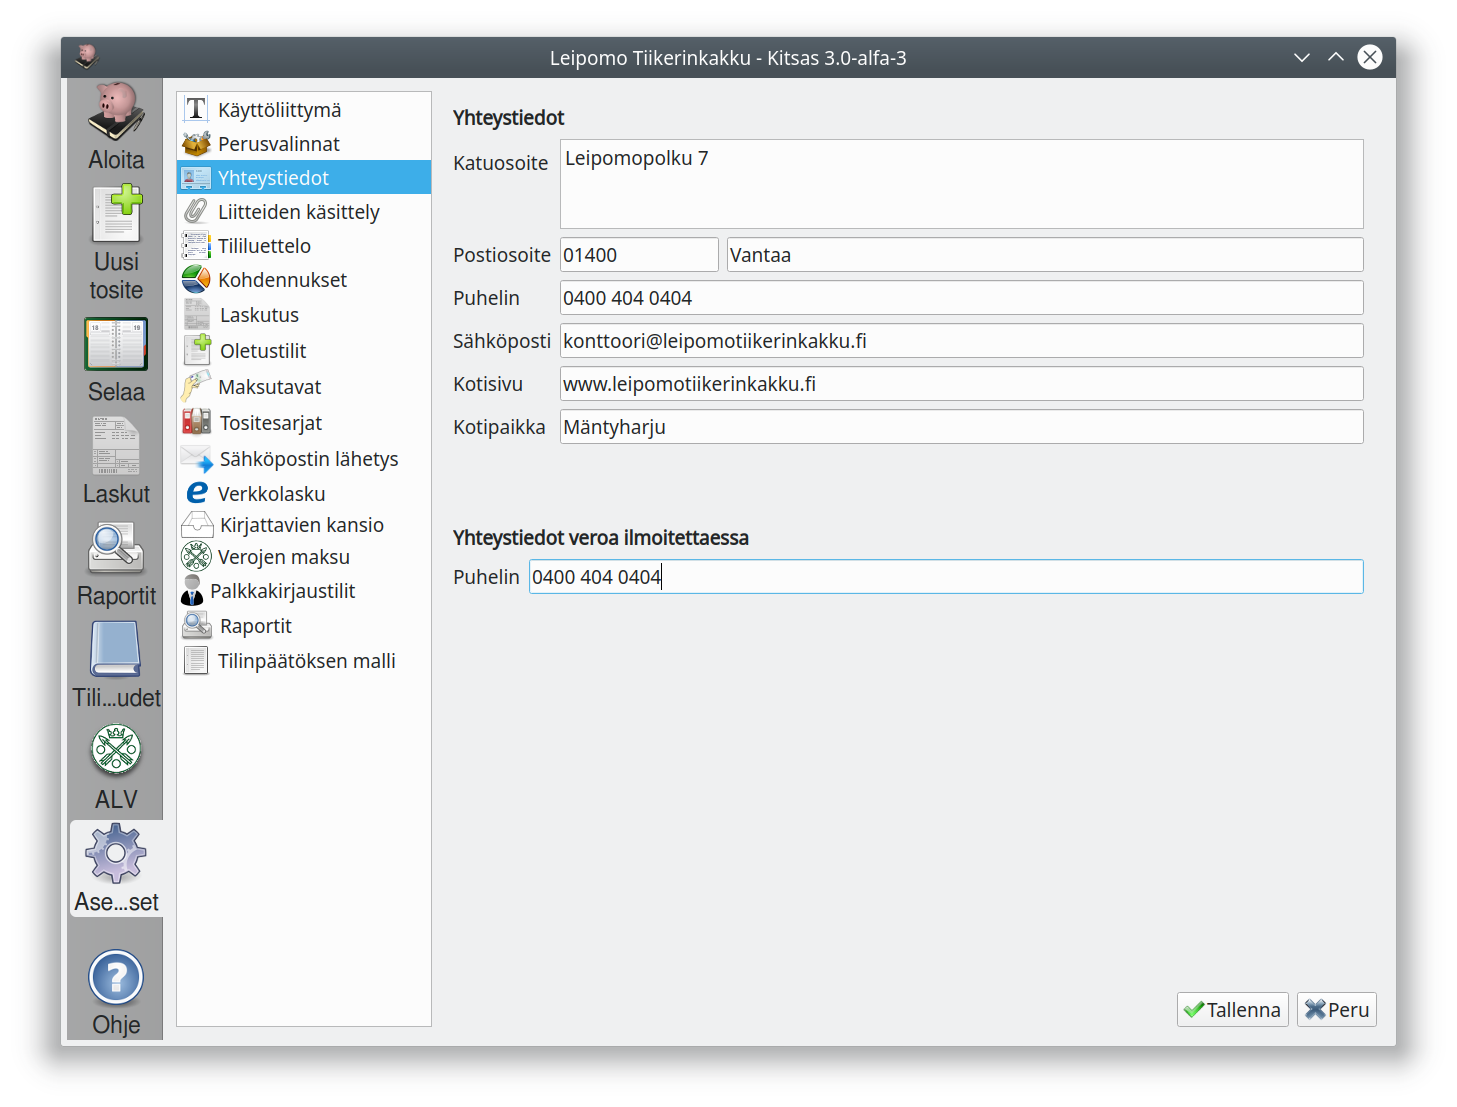
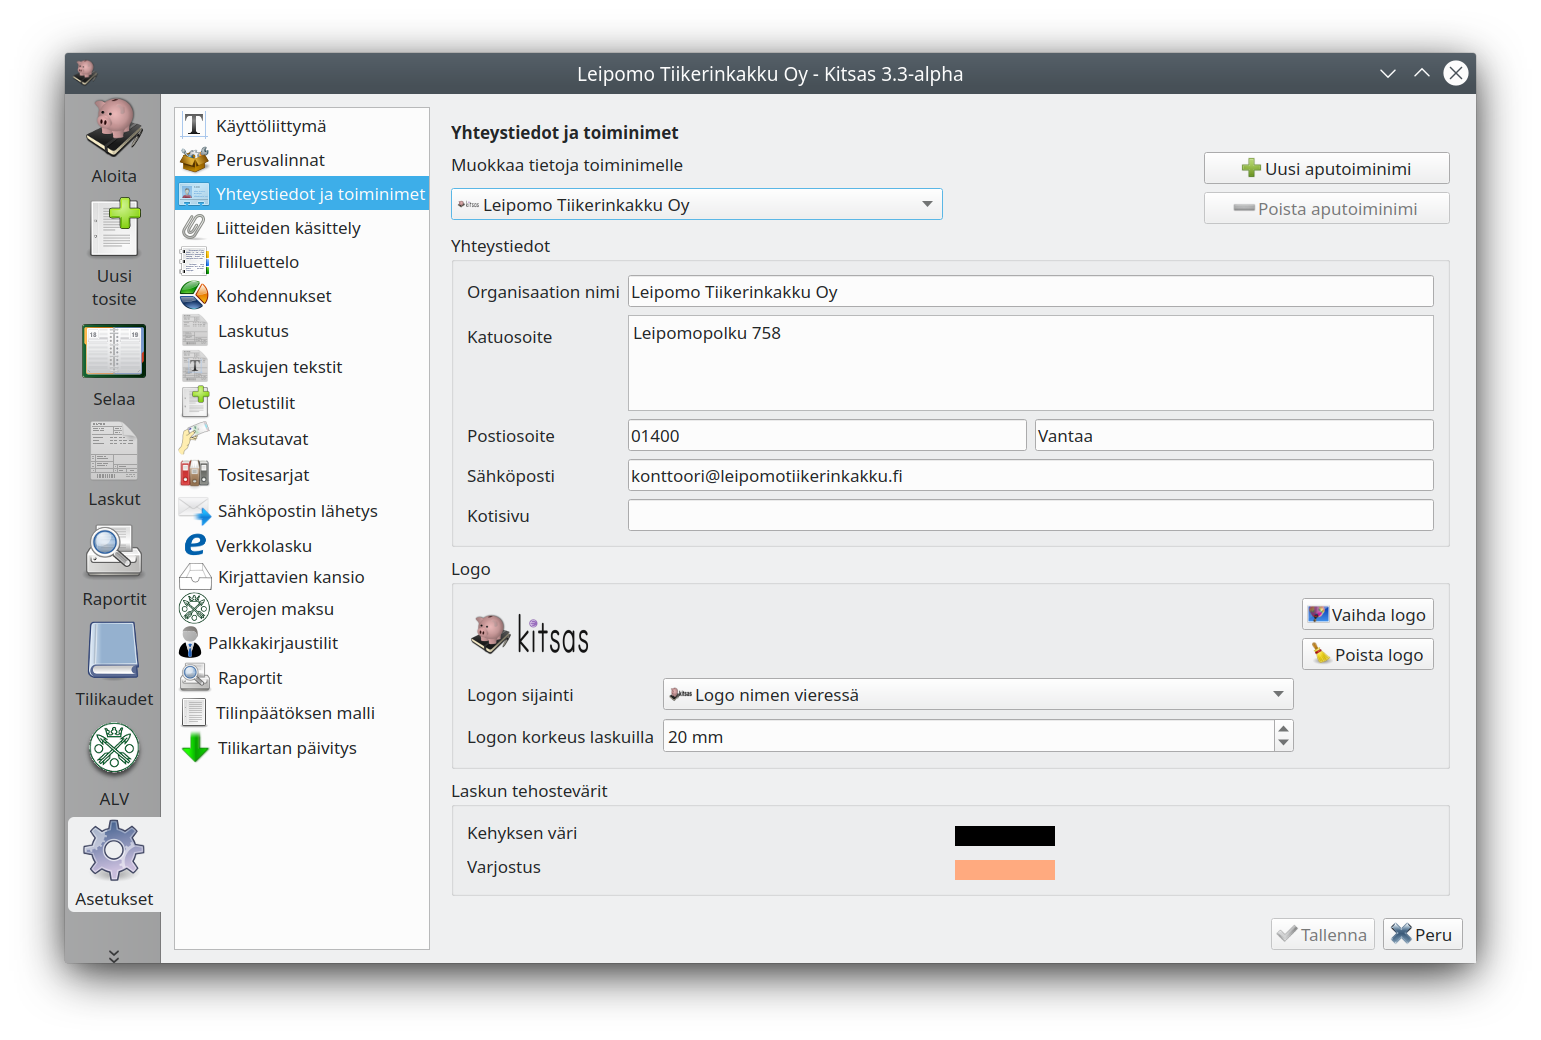
Version 3.3 ohjeet

diff --git a/content/fi/docs/asetukset/sahkoposti.md b/content/fi/docs/asetukset/sahkoposti.md
@@ -10,7 +10,25 @@ description: >
 
 Kitsaalla on mahdollista lähettää laskut suoraan sähköpostiin. Jos tätä toimintoa haluaa käyttää, on ohjelmassa määritettävä sähköpostin asetukset.
 
-Jos valitset asetusten tallentamisen **tietokoneen asetuksiin**, sähköpostitilin asetukset ovat tietokonekohtaisia (samoja asetuksia käytetään kaikilla kirjanpidoilla). Jos valitset tallentamisen **kirjanpitokohtaisesti**, syötetään sähköpostiasetukset erikseen jokaiseen kirjanpitoon. Jos kirjanpidolla on useampi käyttäjä, käyttävät he samoja asetuksia.
+### Sähköpostiasetusten tallennus
+
+#### Tietokoneen asetuksiin
+
+Sähköpostipalvelimen asetukset ovat tietokonekohtaisia, eli samoja asetuksia käytetään kaikilla kirjanpidoilla.
+
+#### Kirjanpitokohtaisesti
+
+Sähköpostipalvelimen asetukset ovat kirjanpitokohtaisia. Jos kirjanpidolla on useampia käyttäjiä, käyttävät he kaikki samoja asetuksia.
+
+#### Lähetä Kitsaan palvelimen kautta
+
+<div class="cloud-only">
+  <i class="fa fa-cloud"></i> Ominaisuus on käytettävissä vain, kun kirjanpito on tallennettu Kitsaan pilveen
+</div>
+
+Sähköpostit lähetetään Kitsaan palvelimen kautta. Sinun ei tarvitse määritellä itse palvelimen asetuksia.
+
+### Smtp-palvelin
 
 - **Palvelin**: Lähtevän sähköpostin palvelimen osoite, löytyy sähköpostin tai internetyhteyden ohjeista.
 - **Portti**: Lähtevän sähköpostin portti palvelimella
@@ -20,12 +38,13 @@ Jos valitset asetusten tallentamisen **tietokoneen asetuksiin**, sähköpostitil
 - **Käyttäjänimi**: Käyttäjänimi palvelimella palveluntarjoajan vaatimassa muodossa
 - **Salasana**: Sähköpostin salasana. Jos Gmailissa käytetään kaksivaiheista varmennusta, tähän syötetään [sovellussalasana](https://myaccount.google.com/apppasswords).
 
-- **Viestin lähettäjän nimi ja osoite**: Viesteissä näkyvät tiedot. Jotkut sähköpostipalvelut vaativat kyseisen palvelun sähköpostiosoitteen käyttämistä.
-
 Kun olet syöttänyt asetukset, paina **Kokeile**-painiketta, joka yrittää lähettää sähköpostin omaan osoitteeseesi. Jos lähetys epäonnistuu, saat siitä ilmoituksen
 
 ![](/img/fi/asetukset/emailvirhe.png)
 
 Tässä tapauksessa käyttäjätunnus tai salasana on väärin.
 
-**Sähköpostilaskun viesti** -kohdassa syötät saateviestin, jonka liitteeksi lasku lähetetään. Voit myös valita, lisätäänkö viestin loppuun **maksutiedot** eli laskun summa, viitenumero, tilinumero sekä virtuaaliviivakoodi.
+### Viestin lähettäjä
+
+- **Viestin lähettäjän nimi ja osoite**: Viesteissä näkyvät tiedot. Jotkut sähköpostipalvelut vaativat kyseisen palvelun sähköpostiosoitteen käyttämistä.
+- **Laskukopiot osoitteeseen**: Kaikista lähetettävistä laskuista lähetetään kopio myös määrittelemääsi osoitteeseen.

diff --git a/content/fi/docs/asetukset/laskutus.md b/content/fi/docs/asetukset/laskutus.md
@@ -2,7 +2,7 @@
 title: "Laskutuksen asetukset"
 linkTitle: "Laskutus"
 weight: 90
-keywords: ["laskutus"]
+keywords: ["laskutus", "aputoiminimi"]
 description: >
   Laskutuksen tilien ja laskujen ulkoasun asetukset
 ---
@@ -38,13 +38,16 @@ Huomautusaika
 Peruskorko
 : korko, jonka perusteella viivästyskorko määritellään. [Suomen Pankki](https://www.suomenpankki.fi/fi/Tilastot/korot/kuviot/korot_kuviot/viitekorko_chrt_fi/) julkaisee koron puolen vuoden jaksoille.
 
+Laskurivit
+: tulostetaanko laskurivit arvonlisäverottomilla hinnoilla (**Verottomat rivit**), arvonlisäverollisilla hinnoilla (**Verolliset rivit**) vai molemmilla (**Pitkät rivit**). Valinnan voi tehdä laskua muokattaessa myös yksittäiselle laskulle.
+
+Desimaaleja yksikköhinnassa
+: kuinka monen desimaalin tarkkuudella tuotteiden yksikköhinnat määritellään. Rivin ja laskun kokonaishinta lasketaan aina sentin tarkkuudella.
+
 #### Tulosta laskuille
 
 Tilinumerot
 : Tilinumerot pitää ensin määritellä [tilin tiedoissa]({{<relref "tililuettelo">}}).
-
-Aputoiminimi
-: Käytettäessä aputoiminimeä tulostetaan se yrityksen nimen sijaan
 
 Tilisiirto
 : Perinteinen tilisiirtolomake laskun alalaidassa
@@ -61,15 +64,6 @@ QR-koodi
 Virtuaaliviivakoodi
 : Tekstimuodossa tulostettavat viivakoodin tiedot, joilla maksutiedot voidaan syöttää esim. verkkopankkiin
 
-Kehyksen väri
-: Laskua tulostettaessa kehyksissä käytettävä väri
-
-Varjostus
-: Laskua tulostettaessa varjostukseen käytettävä väri
-
-Logon korkeus
-: Laskulle tulostettavan logon korkeus. Logo ja sen sijainti määritellään [Perusvalinnat]{{<relref "perusvalinnat">}}-lehdellä
-
 #### Ikkunakuoret
 
 Jos laskut on tarkoitus postittaa **ikkunakuoressa**, määrittele kirjekuoren osoiteikkunan koko sekä sijainti. Isoikkunakuoressa (ikkunan korkeus yli 5,5 cm) ikkunan kohdalle tulostetaan sekä lähettäjän että vastaanottajan tiedot.
@@ -82,3 +76,9 @@ Suositellut ikkunakuoret
 | C5 isoikkuna  | 90 mm          | 60 mm           | 18 mm               | 10 mm             |
 | E65           | 90 mm          | 30 mm           | 18 mm               | 40 mm             |
 | E65 isoikkuna | 90 mm          | 60 mm           | 18 mm               | 10 mm             |
+
+{{<alert title="Aputoiminimi, logo ja tehostevärit">}}
+
+Aputoiminimet sekä logoon ja tehosteväreihin liittyvät valinnat määritellään [Yhteystiedot ja toiminimet]({{<relref "yhteystiedot">}}) -välilehdellä.
+
+{{</alert>}}

diff --git a/content/fi/docs/laskutus/luominen/yksityiskohdat.md b/content/fi/docs/laskutus/luominen/yksityiskohdat.md
@@ -82,6 +82,26 @@ Vakioviite
 Valvomaton
 : Laskua ei kirjata myyntisaataviin eikä sen maksamista valvota. Voi käyttää sellaisten laskujen tulostamiseen, jotka kirjataan vasta maksuperusteisesti.
 
+### Arvonlisäveron merkitseminen
+
+![](/img/fi/laskutus/luominen/verorivit.png)
+
+Verottomat rivit
+: Rivien summat ilmoitetaan verottomina, ja vero lisätään vasta kokonaissummaan. Yleinen laskentatapa yritysten välisessä laskutuksessa.
+
+Verolliset rivit
+: Rivien summat ilmoitetaan verollisina. Yleinen tapa laskutettaessa yksityishenkilöitä ja yhdistyksiä, jotka eivät vähennä arvonlisäveroa
+
+Pitkät rivit
+: Jokaiselle riville merkitään sekä veroton että verollinen rivisumma.
+
+### Aputoiminimi
+
+![Toiminimi](/img/fi/laskutus/luominen/toiminimi.png)
+
+Jos asetuksissa on määritelty aputoiminimiä, voit valita tästä laskulle tulostuvan toiminimen (päätoiminimi tai jokin aputoiminimistä)
+
+
 ### Toimituspäivämäärä tai laskutusjakso
 
 ![Toimituspäivämäärän valinta](/img/fi/laskutus/luominen/toimituspvm.png)
@@ -95,19 +115,6 @@ Laskutusjakso
 ### Otsikko
 
 Otsikko tulostetaan laskulle, ja se toimii myös tositteen otsikkona kirjanpidossa.
-
-### Arvonlisäveron merkitseminen
-
-![](/img/fi/laskutus/luominen/verorivit.png)
-
-Verottomat rivit
-: Rivien summat ilmoitetaan verottomina, ja vero lisätään vasta kokonaissummaan. Yleinen laskentatapa yritysten välisessä laskutuksessa.
-
-Verolliset rivit
-: Rivien summat ilmoitetaan verollisina. Yleinen tapa laskutettaessa yksityishenkilöitä ja yhdistyksiä, jotka eivät vähennä arvonlisäveroa
-
-Pitkät rivit
-: Jokaiselle riville merkitään sekä veroton että verollinen rivisumma.
 
 ### Laskun rivit
 
@@ -144,3 +151,11 @@ Lasku, jolla on toimitusjakso, voidaan määritellä toistumaan. Tällöin lasku
 {{% alert title="Toistolaskujen lopettaminen tai muuttaminen" color="primary" %}}
 Voit muuttaa tositumisen asetuksia avaamalla laskun, jolle on määritelty toistuminen, muokattavaksi.
 {{% /alert %}}
+
+### Saateviesti
+
+Kun lasku lähetetään sähköpostilla, sähköpostiviestin otsikko ja teksti. Pdf-muotoinen lasku lähetetään sähköpostiviestin liitteenä.
+
+### Liitteet
+
+Voit lisätä liitetiedostoja, jotka lähetetään sähköposti- ja verkolaskuissa liitetiedostoina. Verkkolaskun liitetiedostojen on oltava pdf-muodossa.

diff --git a/content/fi/docs/asetukset/perusvalinnat.md b/content/fi/docs/asetukset/perusvalinnat.md
@@ -3,7 +3,7 @@ title: "Perusvalinnat"
 linkTitle: "Perusvalinnat"
 weight: 20
 description: >
-  Yrityksen perustiedot, tilikartan valinnat, logo ja ALV-velvollisuus
+  Yrityksen perustiedot, tilikartan valinnat ja ALV-velvollisuus
 keywords: ["uusi"]
 ---
 
@@ -15,14 +15,14 @@ Organisaation nimi
 Y-tunnus
 : Yritystietojärjestelmään rekisteröity Y-tunnus, käytetään tulosteissa.
 
+Kotipaikka
+: Yrityksen virallinen kotipaikka
+
 Yritysmuoto
 : Yritysmuoto määrittelee, mitä tilejä on käytettävissä ja millainen tilinpäätös laaditaan
 
 Laajuus
 : Käytössä olevan tilikartan laajuus määrittelee, kuinka suuri osa tilikartan tileistä on näkyvissä. Voit ottaa yksittäisiä tilejä käyttöön tai piilottaa niitä myös **Tililuettelo**-asetuksissa.
-
-Logo
-: Logo näytetään erilaisissa tulosteissa. Logon sijainti määrittelee, miten logo näytetään laskuilla suhteessa organisaation nimeen.
 
 Tiedoston sijainti
 : Paikallisesti tietokoneelle tallennetun kirjanpitotiedoston sijainti
@@ -41,3 +41,9 @@ Arvonlisäverovelvollinen
 
 Harjoituskirjanpito
 : Harjoituskirjanpidossa kaikkiin tulosteisiin tulee merkintä **HARJOITUS**, jolloin ne erottuvat oikeista kirjanpidon tulosteista ja laskuista. Harjoitustilassa näytön ylälaidassa on palkki, jolla voit muuttaa ohjelman käyttämää päivämäärää ja siten harjoitella esimerkiksi maksumuistutusten muodostamista.
+
+{{<alert title="Logo">}}
+
+Yrityksen logo määritellään [Yhteystiedot ja toiminimet]({{<relref "yhteystiedot">}}) -välilehdellä.
+
+{{</alert>}}

diff --git a/content/fi/docs/asetukset/laskutekstit.md b/content/fi/docs/asetukset/laskutekstit.md
@@ -1,0 +1,38 @@
+---
+title: "Laskujen tekstien määritys"
+linkTitle: "Laskujen tekstit"
+weight: 95
+keywords: ["laskutus"]
+description: >
+  Laskuissa ja saateviesteissä olevien tekstien määritteleminen
+---
+
+![](/img/fi/asetukset/laskutekstit.png)
+
+Tässä määritellään laskuilla oletuksena olevat tekstit. Yksittäiselle laskulle tulevia tekstejä pääsee muokkaamaan laskua luotaessa.
+
+Saateviesti
+: Kun lasku lähetetään sähköpostilla, viestin otsikko ja sisältö
+
+Laskun lisätiedot
+: Jokaisen laskun alkuun tulostuvia lisätietoja
+
+Maksumuistutusviesti
+: Kun maksumuistutus lähetetään sähköpostilla, sähköpostiviestin otsikko ja sisältö
+
+Maksumuistutuksen lisätiedot
+: Maksumuistuksen alkuun laskulle tulostuva teksti
+
+### Käytössä olevat erikoiskentät
+
+Erikoiskenttiä käyttämällä voit esimerkiksi lisätä sähköpostiviestiin laskun maksamiseen tarvittavat tiedot
+
+| Erikoiskenttä  | Sisältö | Esimerkki |
+|----------------|---------|-----------|
+| {{erapvm}}     | Laskun eräpäivä | 23.08.2023 |
+| {{numero}}     | Laskun numero   | 152  |
+| {{summa}}      | Laskun kokonaissumma | 1 234,56 € |
+| {{viite}}      | Laskun viitenumero | 11 10591 |
+| {{iban}}}      | Ensisijainen tilinumero | FI89 1305 5040 0050 91 |
+| {{virtuaali}}  | Virtuaaliviivakoodi | 489130550400050910000152000000000000000001110591220805 |
+| {{yritys}}     | Yrityksen nimi tai aputoiminimi | Leipomo Tiikerinkakku oy |

diff --git a/content/fi/docs/asetukset/yhteystiedot.md b/content/fi/docs/asetukset/yhteystiedot.md
@@ -1,9 +1,28 @@
 ---
-title: "Yhteystiedot"
-linkTitle: "Yhteystiedot"
+title: "Yhteystiedot ja toiminimet"
+linkTitle: "Yhteystiedot ja toiminimet"
 weight: 30
 description: >
-  Laskuihin ja tilinpäätöksiin tulostuvien yhteystietojen määritteleminen
+  Yhteystietojen, aputoiminimien ja logojen määritteleminen
+keywords: ["uusi", "aputoiminimi"]
 ---
 
 ![](/img/fi/asetukset/yhteystiedot.png)
+
+## Aputoiminimet
+
+Voit lisätä yrityksellesi aputoiminimen **Uusi aputoiminimi** -painikkeella. Jokaiselle aputoiminimelle voi määritellä myös oman logonsa sekä yhteystiedot.
+
+Kun olet lisännyt aputoiminimen, voit valita, muokkaatko yrityksen vai jonkin aputoiminimen yhteystietoja ja logoa. Uutta laskua luodessasi voit valita, käytetäänkö laskulla jotain yrityksen aputoiminimistä.
+
+## Yhteystiedot
+
+Määrittele laskuille ja tilinpäätökseen tulostettavat yhteystiedot
+
+## Logo
+
+Valitse logo (jpg- tai png-kuvatiedosto) sekä sen sijainti yrityksen nimeen laskua tulostettaessa.
+
+## Laskun tehostevärit
+
+Valitse laskulle tulostuva kehyksen sekä varjostuksen väri. Värit voidaan määritellä erikseen jokaiselle aputoiminimelle.

diff --git a/content/fi/docs/asetukset/veronmaksu.md b/content/fi/docs/asetukset/veronmaksu.md
@@ -9,6 +9,8 @@ description: >
 
 ![Verojen maksu](/img/fi/asetukset/veronmaksu.png)
 
-**Tuloverojen viite** on OmaVero-palvelusta näkyvä viitenumero, jolla yritys maksaa tuloverojaan (esim. ennakkoverot). Vastaavasti **Oma-aloittesten verojen viite** on viitenumero, jolla maksetaan esimerkiksi arvonlisäverot. Kitsas käyttää näitä viitenumeroita tiliotetietojen automaattiseen kohdistamiseen.
+**Tuloverojen viite** on OmaVero-palvelusta näkyvä viitenumero, jolla yritys maksaa tuloverojaan (esim. ennakkoverot). Vastaavasti **Oma-aloitteisten verojen viite** on viitenumero, jolla maksetaan esimerkiksi arvonlisäverot. Kitsas käyttää näitä viitenumeroita tiliotetietojen automaattiseen kohdistamiseen.
 
 **Arvonlisäveron kirjauksen** vaihtoehdot on esitetty [Arvonlisäveron ohjeissa]({{<relref "../alv/ilmoitus/kirjanpidossa">}})
+
+**Yhteyspuhelinnumero veroja ilmoitettaessa** välitetään muodostettaessa arvonlisäveroilmoituksesta [Ilmoitin-aineisto]({{<relref "../alv/ilmoitus/ilmoitin/">}}).

diff --git a/content/fi/docs/asetukset/maksutavat.md b/content/fi/docs/asetukset/maksutavat.md
@@ -13,3 +13,16 @@ Maksutavat määrittelevät [Tulojen ja menojen kirjauksissa](../../kirjaus/meno
 Jos käytät säännöllisesti kahta maksuliikennetiliä, kannattaa molemmat lisätä Maksutavoiksi, niin voit tehdä tulo- ja menokirjauksia ilman että vastatili tarvitsee valita joka kerta erikseen.
 
 Valinta **Uusi erä** tarkoittaa tase-eriteltävillä tileillä, ettei käyttäjälle näytetä tase-erien valintaluetteloa, vaan kirjaus tehdään aina uuteen tase-erään.
+
+### Näytä laskujen lisätiedot
+
+Määrittelee, näytetäänkö laskua kirjattaessa kentät laskun numerolle, päivämäärälle, eräpäivälle ja viitenumerolle
+
+Laskulle
+: Kun kirjataan osto- tai myyntivelkotilille eli laskutusperusteisesti
+
+Kaikille
+: Kaikkia maksutapoja käytettäessä
+
+Ei koskaan
+: Ei koskaan, jolloin kirjausnäkymä on yksinkertaisempi

diff --git a/content/fi/docs/laskutus/luominen/ryhmalasku.md b/content/fi/docs/laskutus/luominen/ryhmalasku.md
@@ -18,6 +18,8 @@ Valitse laskun saajat **Laskutettavat**-välilehdeltä. Voit lisätä rekisteris
 
 Näytöllä olevasta luettelosta voit vaihtaa yksittäisen laskun saajan kielen ja laskun lähetystavan.
 
+**Lähetystapa**-painikkeella voit vaihtaa kaikkien laskujen lähetystavan - jos esimerkiksi haluat tulostaa laskut niillekin vastaanottajille, joiden laskutustapana on tavallisesti sähköpostilasku.
+
 Kun painat **Tallenna valmiina**, luo ohjelma jokaiselle laskun saajalle erillisen laskun. Valitsemalla laskun _Lähetettävät_-välilehdeltä voit vielä muokata yksittäisiä laskuja ennen niiden lähettämistä.
 
 {{% alert title="Muista lähettää laskut" color="primary" %}}
